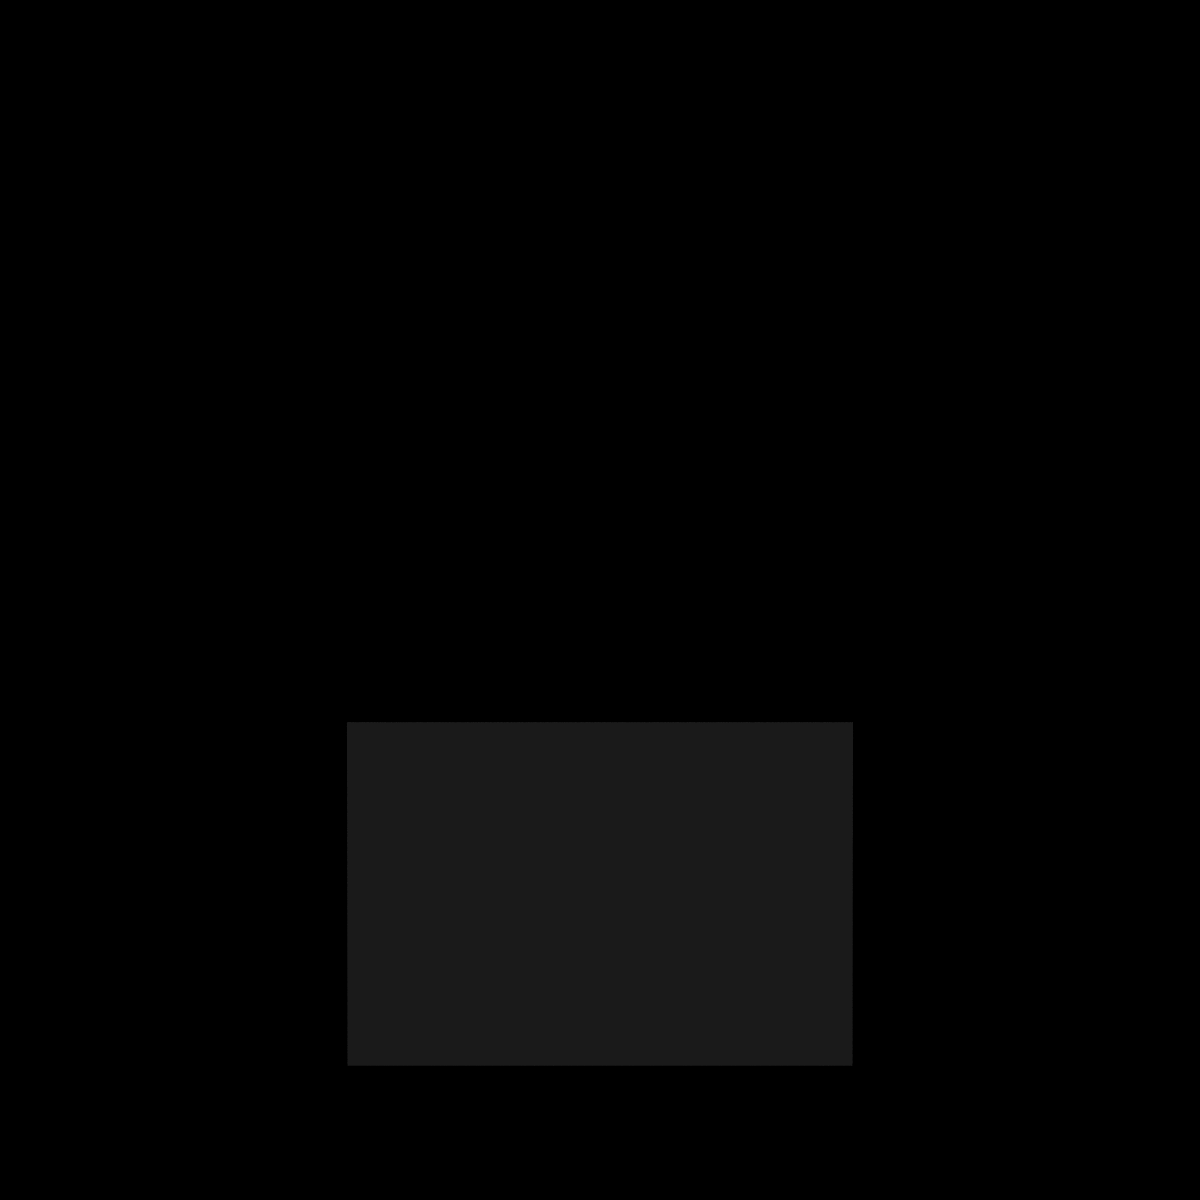
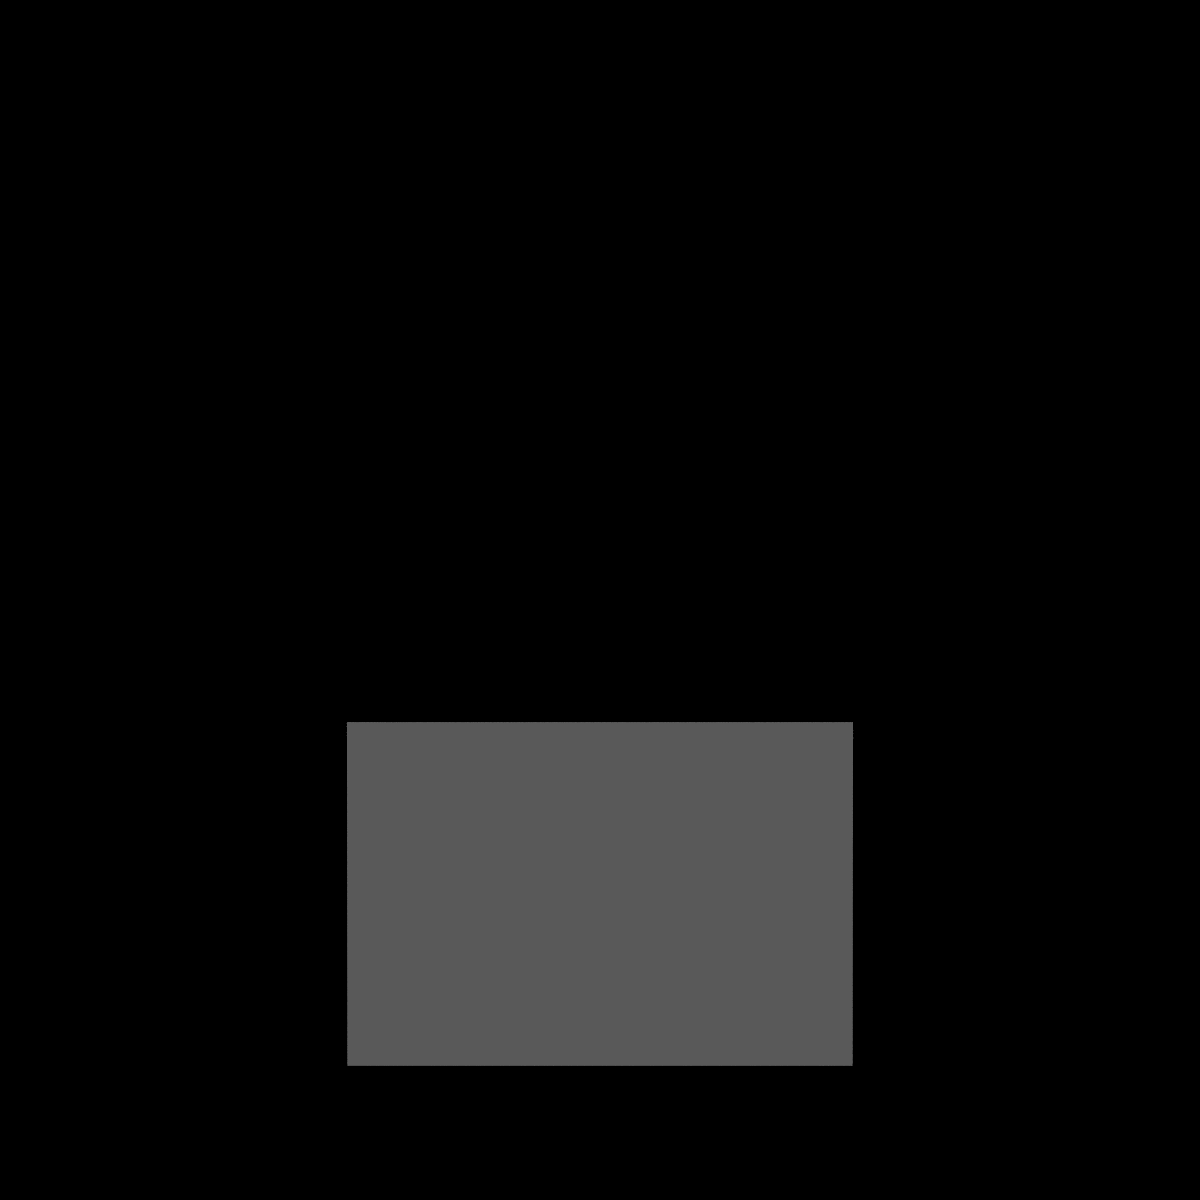
fundamental changes to the algo

Changed region(s): [[0.2775, 0.5858, 0.7092, 0.8942]]

diff --git a/povgen.py b/povgen.py
@@ -7,19 +7,20 @@ import argparse
 
 script_background = "background { color rgb <0.27, 0.27, 0.27> }"
 script_head = """
+#version 3.7
 #declare lens=camera{perspective location <0, 16,-50>  look_at <0,0,0>  angle 12};
 camera{lens}
 light_source{<20, 10, 7>  color rgb <1.00, 1.00, 1.00> area_light 6*x, 6*y, 12, 12}
 union{"""
 
-script_end_x = """
+script_end = """
 rotate y * 45}
 polygon{4, <-2.000000, 1.850000, -8.000000> <-2.000000, -0.200000, -8.000000> <2.000000, -0.200000, -8.000000> <2.000000, 1.850000, -8.000000>
 rotate x *15
 translate<0, -2.3, 0>
 texture{pigment {color rgb <2.126000, 2.126000, 2.126000> transmit 0.400000}}}
 """
-script_end = "rotate y * 45}"
+script_end_x = "rotate y * 45}"
 
 reference_end = """
 rotate y * 45}
@@ -29,57 +30,57 @@ translate<0, -2.3, 0>
 texture{pigment {color rgb <1,1,1>}}}
 """
 
-def michelson_contrast(L1, L2, eps=1e-6):
-    return abs(L1 - L2) / (L1 + L2 + eps)
-
-def get_neighbors(array: np.ndarray, i: int, j: int):
+def get_neighbors(grid, i, j):
     neighbors = []
-    rows, cols = array.shape
-    for di in [-1, 0, 1]:
-        for dj in [-1, 0, 1]:
-            if di == 0 and dj == 0:
-                continue
-            ni, nj = i + di, j + dj
-            if 0 <= ni < rows and 0 <= nj < cols:
-                neighbors.append(array[ni, nj])
+    for di, dj in [(-1,0),(1,0),(0,-1),(0,1)]:
+        ni, nj = i + di, j + dj
+        if 0 <= ni < 8 and 0 <= nj < 8 and grid[ni][nj] >= 0:
+            neighbors.append(grid[ni][nj])
     return neighbors
 
-def gen_shades(
-    grid_size: int,
-    target_luminance: float = 0.5,
-    diff_interval: list[float] = [0.05, 1],
-    max_attempts: int = 1_000_000_000,
-    accuracy: float = 0.001
-) -> np.ndarray:
-    grid = np.full((grid_size, grid_size), np.random.uniform(0, 1))
-    luminance_attempts = 0
-    while (abs(grid.mean() - target_luminance) > accuracy and luminance_attempts <= max_attempts):
-        for i in range(grid_size):
-            for j in range(grid_size):
-                attempts = 0
-                while attempts < max_attempts:
-                    print(f"\rAttempt {luminance_attempts} to match luminance within reach of {accuracy}. Currently {grid.mean()}. Attempt {attempts} trying to find matching colors for {[i,j]}", end="", flush=True)
-                    random_color = np.random.uniform(0, 1)
-                    nbs = get_neighbors(grid, i, j)
-                    valid = True
-                    for k in nbs:
-                        diff = abs(random_color - k)
-                        lower, upper = min(diff_interval), max(diff_interval)
-                        if not (lower <= diff <= upper):
-                            valid = False
-                            break
-                    if valid:
-                        grid[i][j] = random_color
-                        break
-                    attempts += 1
-    
-                if grid[i][j] == -1:
-                    print(f"Couldn't generate valid color at ({i},{j}) after {attempts} attempts.")
-                    exit(1)
-        luminance_attempts += 1    
-    print(f"\nGrid Luminance: {grid.mean()}", end="\n", flush=True)
+def generate_luminance_matched_values(target_luminance, total=64):
+    vals = np.random.uniform(0, 1, total)
+    current_mean = vals.mean()
+    diff = target_luminance - current_mean
+    vals += diff
+    vals = np.clip(vals, 0, 1)
+    vals *= target_luminance / vals.mean()
+    return vals
+
+def is_valid_placement(grid, i, j, val, diff_interval):
+    neighbors = get_neighbors(grid, i, j)
+    for nb in neighbors:
+        diff = abs(val - nb)
+        if not (diff_interval[0] <= diff and diff <= diff_interval[1]):
+            return False
+    return True
+
+def fill_grid(values, diff_interval):
+    grid = np.full((8, 8), -1.0)
+    positions = [(i, j) for i in range(8) for j in range(8)]
+    idx = 0
+
+    for i, j in positions:
+        placed = False
+        for _ in range(len(values)):
+            val = values[idx % len(values)]
+            idx += 1
+            if is_valid_placement(grid, i, j, val, diff_interval):
+                grid[i, j] = val
+                placed = True
+                break
+        if not placed:
+            return None
     return grid
 
+def gen_shades(target_luminance=0.5, diff_interval=[0.05, 1.0], attempts=100_000, accuracy=0.00001):
+    for _ in range(attempts):
+        values = generate_luminance_matched_values(target_luminance)
+        np.random.shuffle(values)
+        grid = fill_grid(values, diff_interval)
+        if grid is not None and abs(grid.mean() - target_luminance) <= accuracy:
+            return grid
+    raise ValueError("Failed to generate a valid grid within constraints")
 
 
 class Coordinate3D:
@@ -101,16 +102,15 @@ def add_box(topLeft: Coordinate3D, bottomRight: Coordinate3D, color: Coordinate3
     return "box{"+str(topLeft)+","+str(bottomRight)+" pigment{ color rgb "+str(color)+" }}\n"
 
 
-def gen_grid(grid_size: int, box_size: float, colors: np.ndarray):
-    base = -(box_size*grid_size)/2
-
+def gen_grid(colors: np.ndarray):
+    base = -(0.73*8)/2
     return_str = ""
-    for i in range(grid_size):
-        for j in range(grid_size):
+    for i in range(8):
+        for j in range(8):
             color = colors[i,j]
             return_str += add_box(
-                Coordinate3D(base+box_size*j,     -1,   base+box_size*i),
-                Coordinate3D(base+box_size*(j+1), -0.71,base+box_size*(i+1)),
+                Coordinate3D(base+0.73*j,     -1,   base+0.73*i),
+                Coordinate3D(base+0.73*(j+1), -0.71,base+0.73*(i+1)),
                 Coordinate3D(color, color, color))
 
     return return_str
@@ -164,25 +164,24 @@ def open_img(path):
 
 def main():
     parser = argparse.ArgumentParser(description="Example script")
-    parser.add_argument("--grid-size", type=int, help="set checkerboard grid size", default=8)
-    parser.add_argument("--cube-size", type=float, help="set single checkerbox cube size", default=0.73)
-    parser.add_argument("allowed_differences", nargs=4, type=float, help="<min bg> <max bg> <min cutout> <max cutout>")
+    parser.add_argument("allowed_differences", nargs=3, type=float, help="<min> <max> <alpha>")
     args = parser.parse_args()
-    min_diff_bg, max_diff_bg, min_diff_ct ,max_diff_ct = args.allowed_differences
-    cube_size = args.cube_size
+    min, max, alpha = args.allowed_differences
 
-    print("calculating background colors (difference min:", str(min_diff_bg), "max:", str(max_diff_bg),")...")
-    colors_bg = gen_shades(grid_size=args.grid_size, diff_interval=[min_diff_bg, max_diff_bg])
+    print("calculating background colors (difference min:", str(min), "max:", str(max),")...")
+    shades = gen_shades(diff_interval=[min, max])
+    m = shades.mean()
+    compressed_shades = (shades - m) * alpha + m    
     
-    print("rendering background with " + str(args.grid_size) + "x" + str(args.grid_size) + " cubes...")
-    render_string_bg = script_background+script_head+gen_grid(args.grid_size, cube_size, colors_bg)+script_end
+    print("Cutout mean:", m, "New mean:", compressed_shades.mean())
+    print("Cutout range:", shades.min(), "to", shades.max())
+    print("Compressed range:", compressed_shades.min(), "to", compressed_shades.max())
+    print("rendering background with 8x8 cubes...")
+    render_string_bg = script_background+script_head+gen_grid(compressed_shades)+script_end
     background = render_img(render_string_bg, "background")
-    
-    print("calculating cutout colors (difference min:", str(min_diff_ct), "max:", str(max_diff_ct),")...")
-    colors_ct = gen_shades(grid_size=args.grid_size, diff_interval=[min_diff_ct, max_diff_ct])
         
-    print("rendering cutout with " + str(args.grid_size) + "x" + str(args.grid_size) + " cubes...")
-    render_string_ct = script_background+script_head+gen_grid(args.grid_size, cube_size, colors_ct)+script_end
+    print("rendering cutout with 8x8 cubes...")
+    render_string_ct = script_background+script_head+gen_grid(shades)+script_end
     cutout = render_img(render_string_ct, "cutout")
     
     print("rendering cropping range...")
@@ -199,6 +198,7 @@ def main():
         target_img.paste(cropped, crop_box[:2], cropped)
         target_img.save("result.png")
         print("done!")
+        open_img("images/cutout.png")
         open_img("result.png")
     else:
         print("crop box couldn't be generated")
